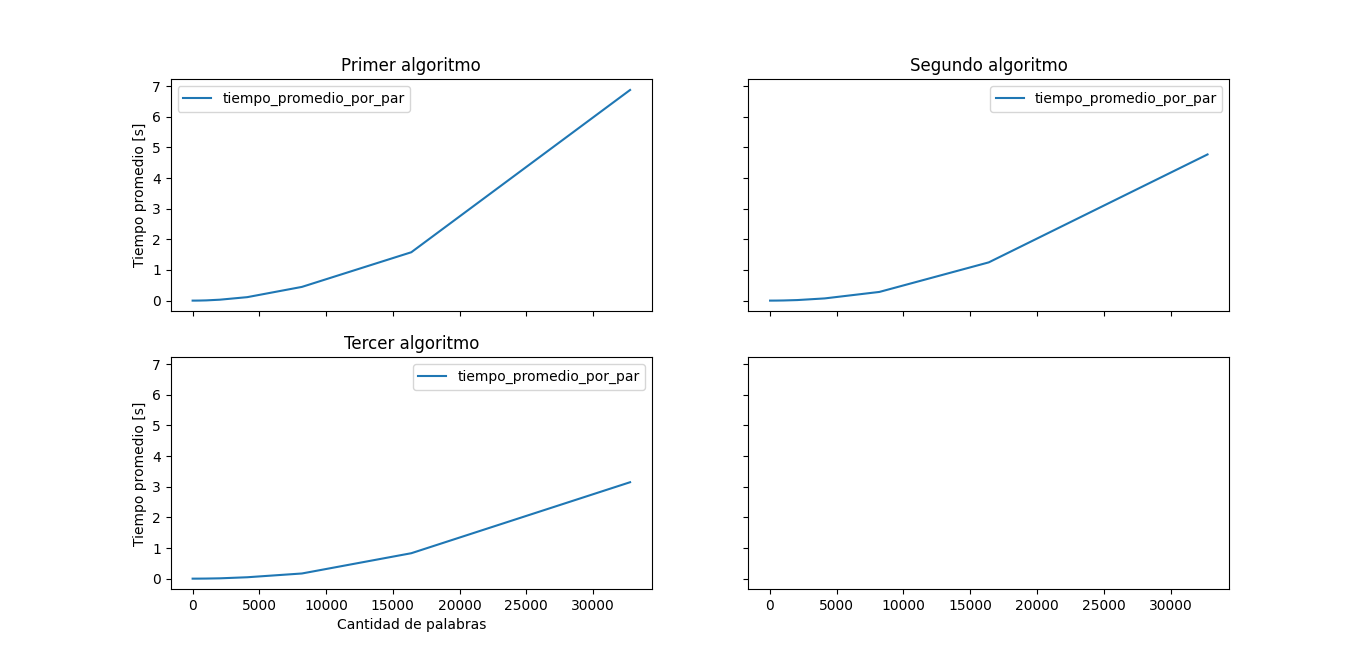
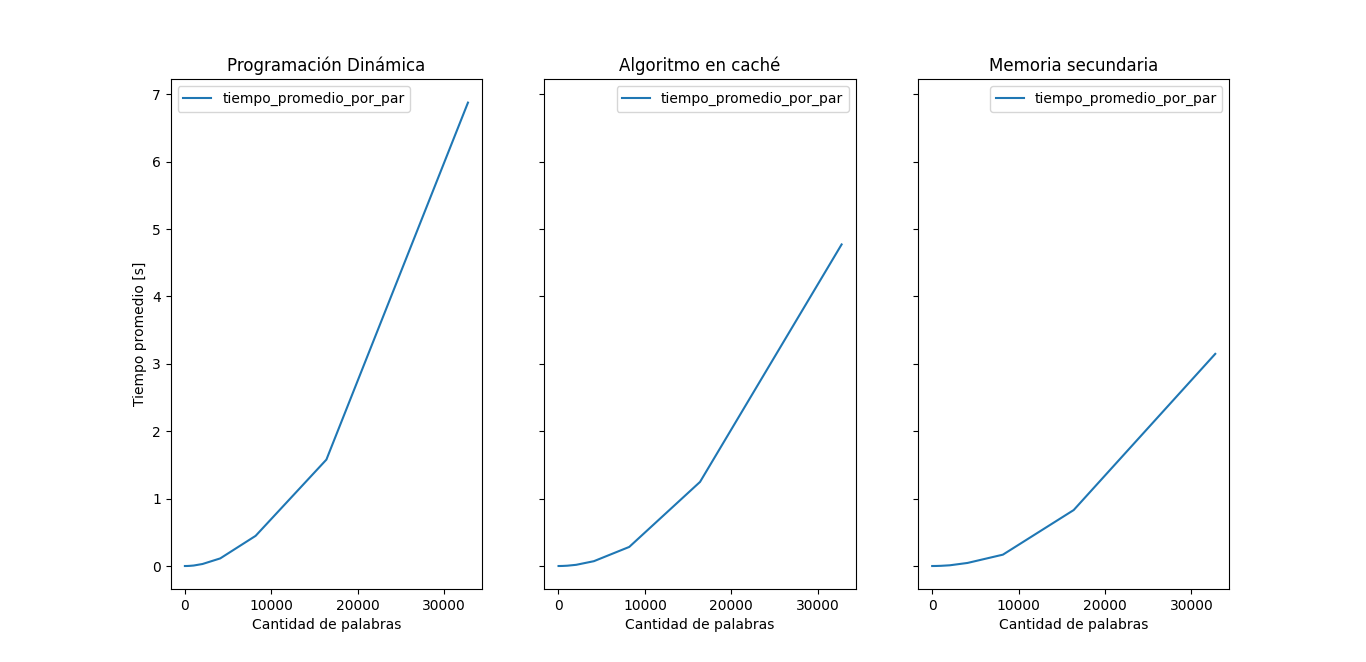
Figuras mostradas en una sola imagen

diff --git a/show_stats.py b/show_stats.py
@@ -15,19 +15,19 @@ df_alg_1 = df[df['nalg'] == 1]
 df_alg_2 = df[df['nalg'] == 2]
 df_alg_3 = df[df['nalg'] == 3]
 
-fig, axes = plt.subplots(nrows=2, ncols=2, sharex=True, sharey=True)
+fig, axes = plt.subplots(nrows=1, ncols=3, sharex=True, sharey=True)
 
 
-df_alg_1.plot(ax=axes[0,0],x='tamano_string',y='tiempo_promedio_por_par',
+df_alg_1.plot(ax=axes[0],x='tamano_string',y='tiempo_promedio_por_par',
 xlabel='Cantidad de palabras', ylabel="Tiempo promedio [s]",
-title="Primer algoritmo", legend="Tiempo promedio por par")
+title="Programación Dinámica", legend="Tiempo promedio por par")
 
-df_alg_2.plot(ax=axes[0,1], x='tamano_string',y='tiempo_promedio_por_par',
+df_alg_2.plot(ax=axes[1], x='tamano_string',y='tiempo_promedio_por_par',
 xlabel='Cantidad de palabras', ylabel="Tiempo promedio [s]",
-title="Segundo algoritmo", legend="Tiempo promedio por par")
+title="Algoritmo en caché", legend="Tiempo promedio por par")
 
-df_alg_3.plot(ax=axes[1,0], x='tamano_string',y='tiempo_promedio_por_par',
+df_alg_3.plot(ax=axes[2], x='tamano_string',y='tiempo_promedio_por_par',
 xlabel='Cantidad de palabras', ylabel="Tiempo promedio [s]",
-title="Tercer algoritmo", legend="Tiempo promedio por par")
+title="Memoria secundaria", legend="Tiempo promedio por par")
 
 plt.show()
